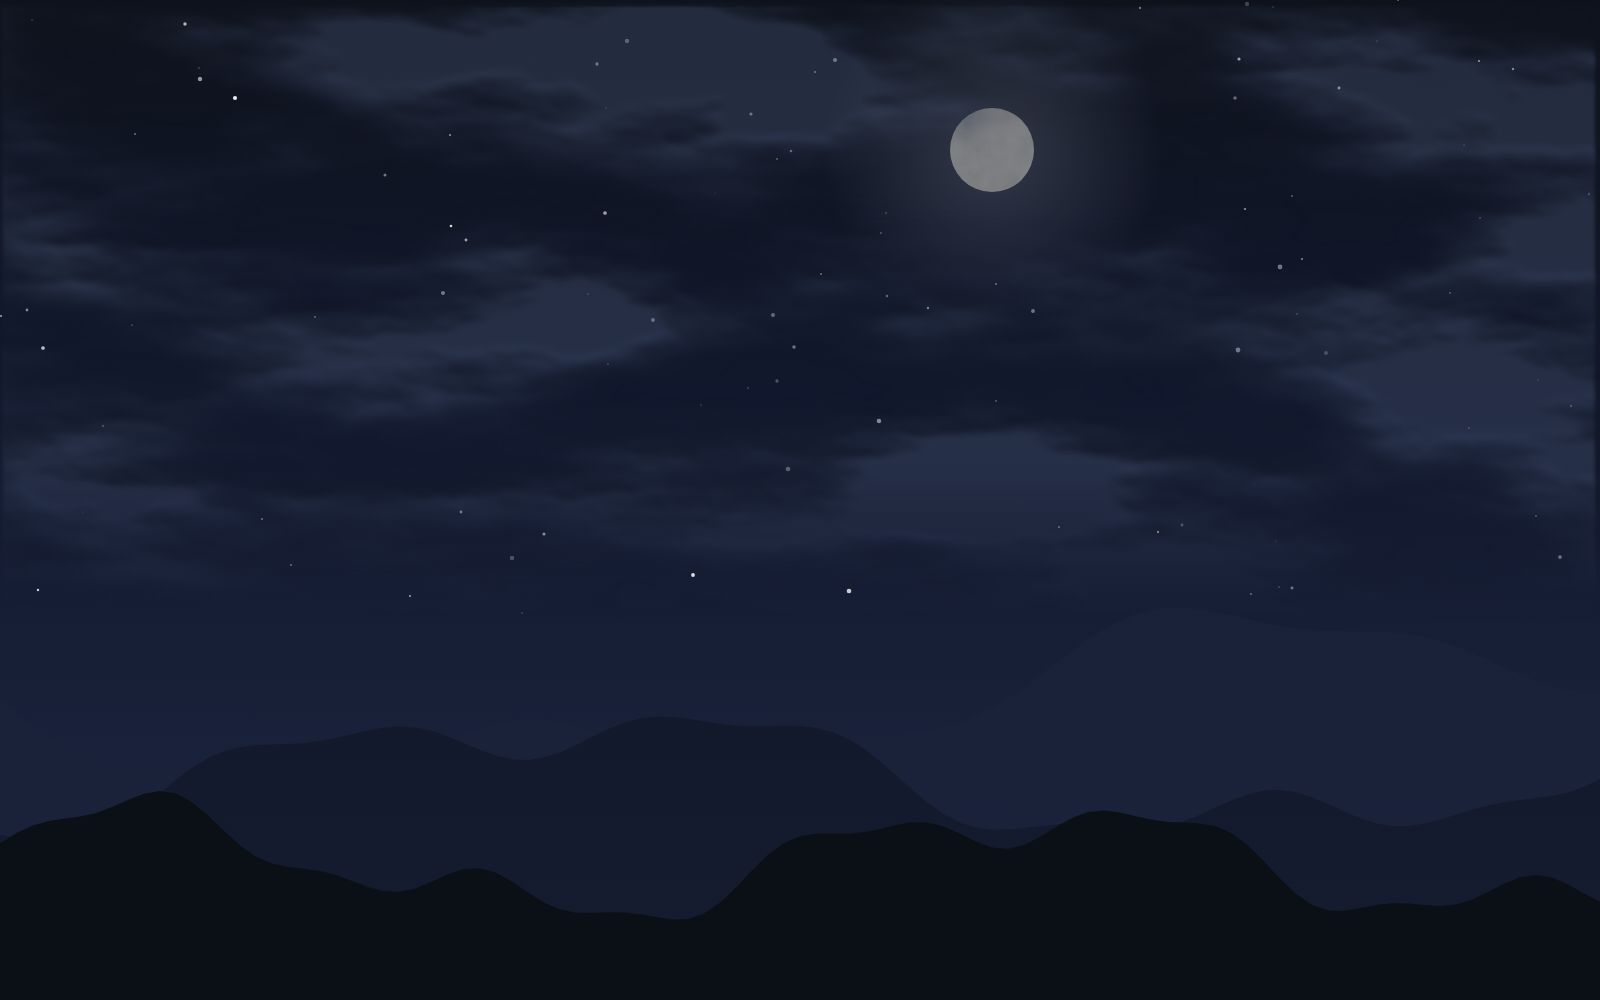
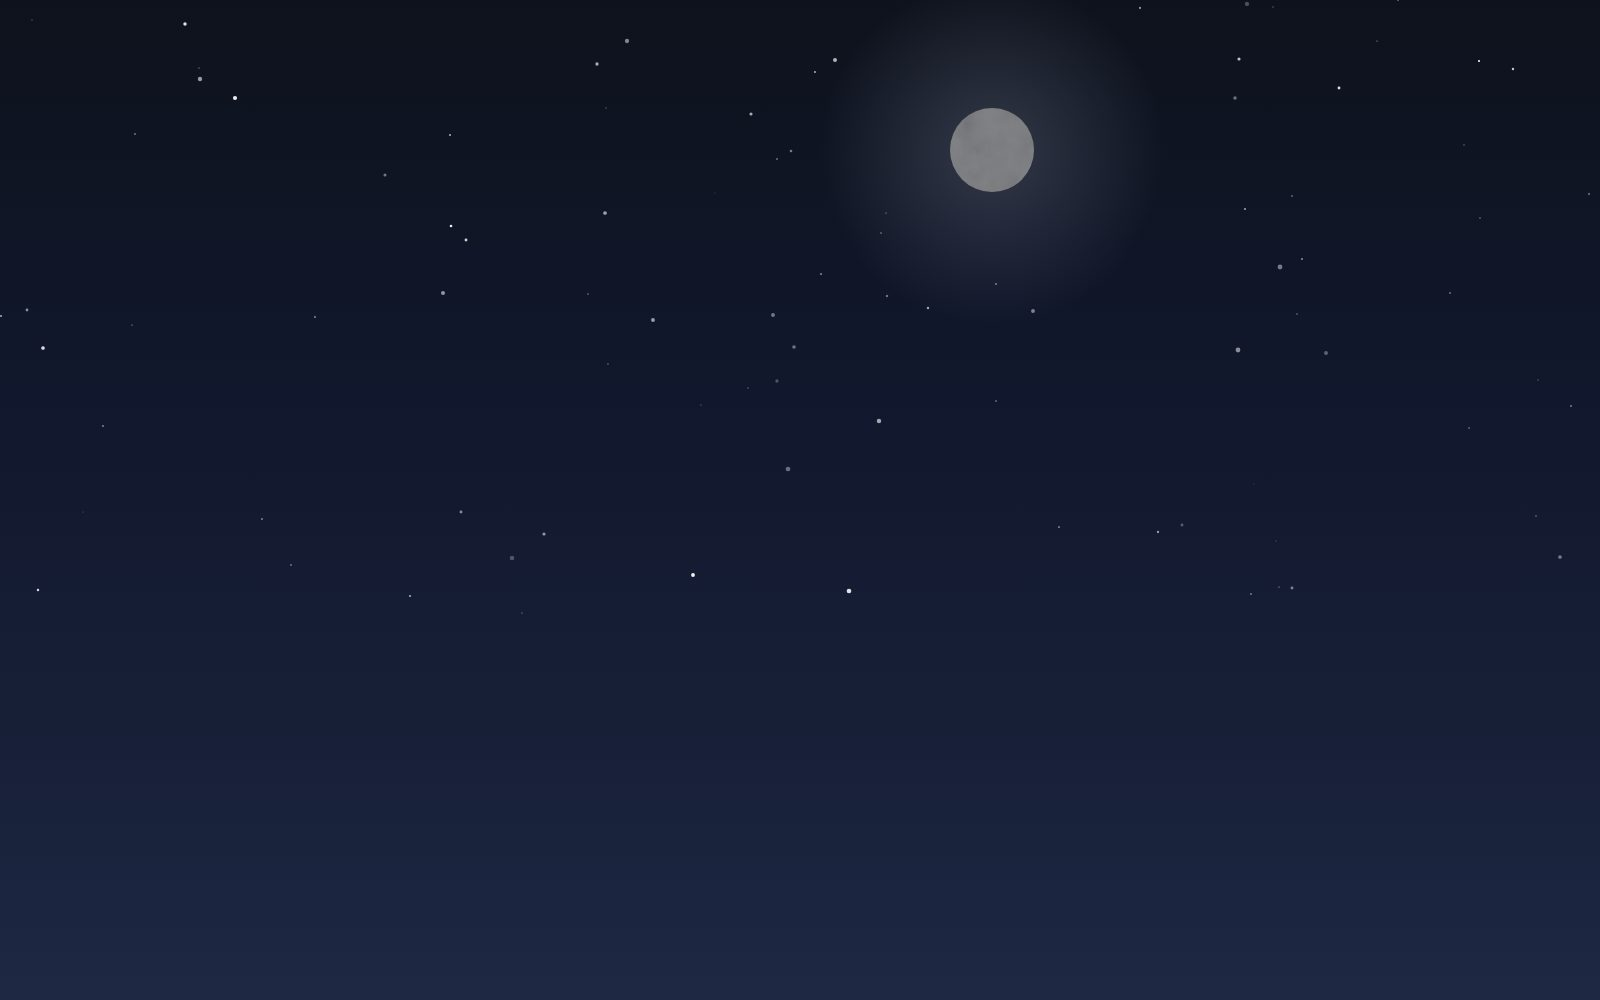
Tema Céu animado: nuvens deslizando, raios de sol e chuva caindo
- O céu virou camadas: fundo (gradiente, sol, lua, estrelas), nuvens numa
  faixa larga que vai e volta devagar, serra na frente e chuva por cima.
- Raios de sol: dois leques girando em sentidos opostos (manhã, dia e
  pôr do sol; fracos com céu nublado).
- Chuva: dois quadros de gotas repetidos, em velocidades diferentes.
- Leve: só imagens prontas mexidas por transform/opacity; ~300 KB
  carregados por vez. “Menos animação” nos Ajustes deixa tudo parado.

Claude-Session: https://claude.ai/code/session_01QDjm5Ds1oAwQpQakCaEMvL

diff --git a/luna-ai/scripts/sky/sky.html b/luna-ai/scripts/sky/sky.html
@@ -8,7 +8,11 @@
  */
 const q = new URLSearchParams(location.search);
 const phase = q.get('phase') || 'manha', wx = q.get('wx') || 'limpo';
-const W = 1600, H = 1000;
+// camada: ceu (fundo: gradiente, sol, lua, estrelas) · nuvens (faixa larga, fundo transparente, desliza no app) · serra (frente, transparente)
+const layer = q.get('layer') || 'tudo';
+const show = (k) => layer === 'tudo' || layer === k;
+const H = 1000, W = layer === 'nuvens' ? 3200 : 1600;
+if (layer !== 'ceu' && layer !== 'tudo') document.body.style.background = 'transparent';
 const P = {
   manha: { sky: ['#4f8fd6', '#8cc3ef', '#cfe6f7', '#fbefd9'], sun: [0.73, 0.15, '#fffbe8', 300], light: '#ffffff', shade: '#9db3c9', az: 225, el: 38, hills: ['#6f8fa3', '#4f7a5f', '#2f5a3c'], haze: '#cfe6f7', hz: 0.55, gray: '#aab4bf' },
   dia: { sky: ['#2f6fc4', '#5b9fe0', '#a6d0f2', '#e2f0fa'], sun: [0.86, 0.08, '#ffffff', 260], light: '#ffffff', shade: '#8ea6bf', az: 240, el: 60, hills: ['#7a95a8', '#4d7b5a', '#2c5838'], haze: '#c6e1f5', hz: 0.5, gray: '#9ea9b4' },
@@ -23,30 +27,32 @@ let defs = `<linearGradient id="sky" x1="0" y1="0" x2="0" y2="1">${sky.map((c, i
 <linearGradient id="haze" x1="0" y1="0" x2="0" y2="1"><stop offset=".55" stop-color="${mix(P.haze, P.gray, C.gray)}" stop-opacity="0"/><stop offset="1" stop-color="${mix(P.haze, P.gray, C.gray)}" stop-opacity="1"/></linearGradient>
 <linearGradient id="fg" x1="0" y1="0" x2="0" y2="1"><stop offset="0" stop-color="#fff"/><stop offset=".75" stop-color="#fff"/><stop offset="1" stop-color="#fff" stop-opacity="0"/></linearGradient>
 <mask id="fade" maskUnits="userSpaceOnUse" x="0" y="0" width="${W}" height="${H}"><rect width="${W}" height="${H * C.h}" fill="url(#fg)"/></mask>`;
-let body = `<rect width="${W}" height="${H}" fill="url(#sky)"/>`;
-if (phase === 'noite') for (let i = 0; i < (wx === 'limpo' ? 330 : wx === 'nublado' ? 90 : 0); i++) { const z = r(); body += `<circle cx="${(r() * W) | 0}" cy="${(r() * H * 0.62) | 0}" r="${(0.5 + z * z * 1.9).toFixed(2)}" fill="#fff" opacity="${(0.25 + r() * 0.7).toFixed(2)}"/>`; }
-if (P.sun && wx !== 'chuva') { const [x, y, c, rad] = P.sun; const o = wx === 'limpo' ? 1 : 0.45;
+let body = show('ceu') ? `<rect width="${W}" height="${H}" fill="url(#sky)"/>` : '';
+if (show('ceu') && phase === 'noite') for (let i = 0; i < (wx === 'limpo' ? 330 : wx === 'nublado' ? 90 : 0); i++) { const z = r(); body += `<circle cx="${(r() * W) | 0}" cy="${(r() * H * 0.62) | 0}" r="${(0.5 + z * z * 1.9).toFixed(2)}" fill="#fff" opacity="${(0.25 + r() * 0.7).toFixed(2)}"/>`; }
+if (show('ceu') && P.sun && wx !== 'chuva') { const [x, y, c, rad] = P.sun; const o = wx === 'limpo' ? 1 : 0.45;
   defs += `<radialGradient id="sun"><stop offset="0" stop-color="#fff" stop-opacity="${o}"/><stop offset=".08" stop-color="${c}" stop-opacity="${0.9 * o}"/><stop offset=".25" stop-color="${c}" stop-opacity="${0.35 * o}"/><stop offset="1" stop-color="${c}" stop-opacity="0"/></radialGradient>`;
   body += `<circle cx="${x * W}" cy="${y * H}" r="${rad}" fill="url(#sun)"/>`; }
-if (P.moon && wx !== 'chuva') { const [x, y] = P.moon; const o = wx === 'limpo' ? 1 : 0.5;
+if (show('ceu') && P.moon && wx !== 'chuva') { const [x, y] = P.moon; const o = wx === 'limpo' ? 1 : 0.5;
   defs += `<radialGradient id="mg"><stop offset="0" stop-color="#dfe6ff" stop-opacity=".35"/><stop offset="1" stop-color="#dfe6ff" stop-opacity="0"/></radialGradient>
   <filter id="crat"><feTurbulence type="fractalNoise" baseFrequency=".05" numOctaves="4" seed="5"/><feColorMatrix type="saturate" values="0"/><feComponentTransfer><feFuncA type="linear" slope=".35"/></feComponentTransfer><feComposite in2="SourceGraphic" operator="in"/></filter>`;
   body += `<g opacity="${o}"><circle cx="${x * W}" cy="${y * H}" r="175" fill="url(#mg)"/><circle cx="${x * W}" cy="${y * H}" r="42" fill="#f2f0e6"/><circle cx="${x * W}" cy="${y * H}" r="42" fill="#000" filter="url(#crat)"/></g>`; }
 const light = mix(P.light, '#c3c9d1', phase === 'noite' ? 0 : C.gray * 0.6), shade = mix(P.shade, '#2b333d', C.gray);
 defs += `<filter id="cl" x="0" y="0" width="100%" height="100%" color-interpolation-filters="sRGB">
- <feTurbulence type="fractalNoise" baseFrequency="${0.0028 * 1280 / W} ${0.009 * 800 / H}" numOctaves="6" seed="${phase.length * 3 + wx.length}" result="n"/>
+ <feTurbulence type="fractalNoise" baseFrequency="${0.0028 * 1280 / 1600} ${0.009 * 800 / H}" numOctaves="6" seed="${phase.length * 3 + wx.length}" result="n"/>
  <feColorMatrix in="n" type="matrix" values="0 0 0 0 1  0 0 0 0 1  0 0 0 0 1  ${C.cover[0]} 0 0 0 ${C.cover[1]}" result="a"/>
  <feGaussianBlur in="a" stdDeviation="${wx === 'chuva' ? 5 : 3}" result="ab"/>
  <feDiffuseLighting in="ab" surfaceScale="9" diffuseConstant="1.15" lighting-color="${light}" result="lit"><feDistantLight azimuth="${P.az}" elevation="${P.el}"/></feDiffuseLighting>
  <feComposite in="lit" in2="ab" operator="in" result="l2"/>
  <feFlood flood-color="${shade}" result="sh"/><feComposite in="sh" in2="ab" operator="in" result="s2"/>
  <feBlend in="l2" in2="s2" mode="screen" result="c"/><feComposite in="c" in2="ab" operator="in"/></filter>`;
-body += `<rect width="${W}" height="${H}" filter="url(#cl)" opacity="${phase === 'noite' ? (wx === 'limpo' ? 0.45 : 0.5) : C.op}" mask="url(#fade)"/>`;
+if (show('nuvens')) body += `<rect width="${W}" height="${H}" filter="url(#cl)" opacity="${phase === 'noite' ? (wx === 'limpo' ? 0.45 : 0.5) : C.op}" mask="url(#fade)"/>`;
 const hills = P.hills.map((c) => mix(c, P.gray, C.gray * 0.5));
-[[0.0034, 0.7, 112], [0.0048, 0.775, 88], [0.0068, 0.862, 75]].forEach(([f, base, amp], i) => {
+if (show('serra')) [[0.0034, 0.7, 112], [0.0048, 0.775, 88], [0.0068, 0.862, 75]].forEach(([f, base, amp], i) => {
   let d = `M0 ${H} `; for (let x = 0; x <= W; x += 16) { const y = base * H + Math.sin(x * f + i * 2) * amp * 0.6 + Math.sin(x * f * 2.7 + i) * amp * 0.3 + Math.sin(x * f * 6.1 + i * 5) * amp * 0.12; d += `L${x} ${y.toFixed(1)} `; }
   body += `<path d="${d}L${W} ${H} Z" fill="${hills[i]}"/>`; if (i < 2) body += `<rect width="${W}" height="${H}" fill="url(#haze)" opacity="${P.hz + C.gray * 0.3}"/>`; });
-if (wx === 'chuva') { body += `<rect width="${W}" height="${H}" fill="url(#haze)" opacity=".35"/>`; defs += `<filter id="rb"><feGaussianBlur stdDeviation=".5"/></filter>`; let g = '';
+if (show('serra') && wx === 'chuva') body += `<rect width="${W}" height="${H}" fill="url(#haze)" opacity=".35"/>`;
+// a chuva agora cai animada no app (camada própria); aqui só na prévia completa
+if (layer === 'tudo' && wx === 'chuva') { defs += `<filter id="rb"><feGaussianBlur stdDeviation=".5"/></filter>`; let g = '';
   for (let i = 0; i < 1300; i++) { const x = r() * W * 1.2, y = r() * H, l = 25 + r() * 55; g += `<line x1="${x | 0}" y1="${y | 0}" x2="${(x - l * 0.25) | 0}" y2="${(y + l) | 0}" stroke="#dbe7f5" stroke-width="${(0.7 + r() * 1.4).toFixed(1)}" opacity="${((phase === 'noite' ? 0.3 : 0.55) * (0.3 + r() * 0.7)).toFixed(2)}" stroke-linecap="round"/>`; }
   body += `<g filter="url(#rb)">${g}</g>`; }
 const s = document.getElementById('s'); s.setAttribute('width', W); s.setAttribute('height', H); s.setAttribute('viewBox', `0 0 ${W} ${H}`); s.innerHTML = `<defs>${defs}</defs>${body}`;

diff --git a/luna-ai/apps/web/src/components/SkyBackdrop.tsx b/luna-ai/apps/web/src/components/SkyBackdrop.tsx
@@ -3,20 +3,52 @@ import type { WeatherDto } from '@luna/shared/types';
 import { useSettings } from '../stores/settings';
 import { useDevices } from '../stores/devices';
 import { useClock, useWeather } from '../hooks/useWeather';
-import { skyPhase, skyTip, skyUrl, skyWeather } from '../lib/sky';
+import { skyPhase, skyTip, skyUrl, skyWeather, type SkyPhase, type SkyWx } from '../lib/sky';
 import { normalizeName } from '../lib/houseLinks';
 import { api, errorMessage } from '../services/api';
 
 const FADE_MS = 2500;
+/** Tamanho das imagens geradas (scripts/sky/render.cjs) */
+const IW = 1600;
+const IH = 1000;
+/** A serra começa nesta altura da imagem */
+const HILLS_Y = 360;
+/** Onde está o sol em cada fase (fração da imagem) */
+const SUN: Partial<Record<SkyPhase, [number, number]>> = { manha: [0.73, 0.15], dia: [0.86, 0.08], tarde: [0.5, 0.75] };
+const CLOUD_H: Record<SkyWx, number> = { limpo: 0.47, nublado: 0.62, chuva: 1 };
+
+/** Mesma conta do object-fit: cover (imagem centralizada, cobrindo a tela) */
+function useCover() {
+  const get = () => {
+    const vw = window.innerWidth;
+    const vh = window.innerHeight;
+    const s = Math.max(vw / IW, vh / IH);
+    return { vw, vh, s, x0: (vw - IW * s) / 2, y0: (vh - IH * s) / 2 };
+  };
+  const [g, setG] = useState(get);
+  useEffect(() => {
+    const on = () => setG(get());
+    window.addEventListener('resize', on);
+    return () => window.removeEventListener('resize', on);
+  }, []);
+  return g;
+}
 
 /**
- * Céu de fundo do tema “Céu”. Escolhe a imagem pela hora e pelo tempo e troca com dissolve.
- * Leve: é só uma imagem parada (no máximo duas durante a troca), sem nada desenhado ao vivo.
+ * Céu de fundo do tema “Céu”, em camadas: fundo (gradiente, sol, lua) → raios de sol girando devagar →
+ * nuvens deslizando → serra na frente → chuva caindo. Só imagens prontas mexidas por transform/opacity
+ * (a placa de vídeo faz o trabalho); com “menos animação” nos Ajustes, tudo fica parado.
  */
 export function SkyBackdrop() {
   const on = useSettings((s) => s.theme) === 'ceu';
   if (!on) return null;
   return <Sky />;
+}
+
+interface Scene {
+  key: string;
+  phase: SkyPhase;
+  wx: SkyWx;
 }
 
 function Sky() {
@@ -28,39 +60,64 @@ function Sky() {
     return () => clearInterval(t);
   }, [reload]);
   const phase = skyPhase(now, weather);
-  const url = skyUrl(phase, skyWeather(weather));
-  const [layers, setLayers] = useState<{ url: string; n: number; shown: boolean }[]>([{ url, n: 0, shown: true }]);
+  const wx = skyWeather(weather);
+  const key = `${phase}-${wx}`;
+  const [layers, setLayers] = useState<(Scene & { n: number; shown: boolean })[]>([{ key, phase, wx, n: 0, shown: true }]);
   const n = useRef(0);
+  const geo = useCover();
 
   useEffect(() => {
     document.documentElement.dataset.sky = phase;
   }, [phase]);
   useEffect(() => () => void delete document.documentElement.dataset.sky, []);
 
+  // Troca de céu: carrega as camadas novas antes e faz o dissolve
   useEffect(() => {
-    if (layers[layers.length - 1]?.url === url) return;
+    if (layers[layers.length - 1]?.key === key) return;
     let alive = true;
     const timers: number[] = [];
-    const img = new Image();
-    img.onload = () => {
+    const urls = [skyUrl(phase, wx), `/sky/${key}-nuvens.webp`, `/sky/${key}-serra.webp`];
+    void Promise.all(urls.map((u) => new Promise((ok) => Object.assign(new Image(), { onload: ok, onerror: ok, src: u })))).then(() => {
       if (!alive) return;
       const k = ++n.current;
-      setLayers((l) => [...l.slice(-1), { url, n: k, shown: false }]);
+      setLayers((l) => [...l.slice(-1), { key, phase, wx, n: k, shown: false }]);
       timers.push(window.setTimeout(() => setLayers((l) => l.map((x) => (x.n === k ? { ...x, shown: true } : x))), 50));
       timers.push(window.setTimeout(() => setLayers((l) => l.filter((x) => x.n === k)), FADE_MS + 300));
-    };
-    img.src = url;
+    });
     return () => {
       alive = false;
       timers.forEach(clearTimeout);
     };
-  }, [url]); // eslint-disable-line react-hooks/exhaustive-deps
+  }, [key]); // eslint-disable-line react-hooks/exhaustive-deps
 
+  const { s, x0, y0, vw } = geo;
+  const box = (y: number, w: number, h: number) => ({ left: x0, top: y0 + y * s, width: w * s, height: h * s });
   return (
     <div className="sky-bg" aria-hidden="true">
-      {layers.map((l) => (
-        <img key={l.n} src={l.url} alt="" className={l.shown ? 'in' : ''} decoding="async" />
-      ))}
+      {layers.map((l) => {
+        const sun = l.wx !== 'chuva' ? SUN[l.phase] : undefined;
+        const cloudW = IW * 2 * s;
+        return (
+          <div key={l.n} className={`sky-scene ${l.shown ? 'in' : ''}`}>
+            <img src={skyUrl(l.phase, l.wx)} alt="" decoding="async" style={box(0, IW, IH)} />
+            {sun && <div className={`sky-rays ${l.wx === 'limpo' ? '' : 'faint'} ${l.phase}`} style={{ left: x0 + sun[0] * IW * s, top: y0 + sun[1] * IH * s }} />}
+            <img
+              className="sky-clouds"
+              src={`/sky/${l.key}-nuvens.webp`}
+              alt=""
+              decoding="async"
+              style={{ ...box(0, IW * 2, IH * CLOUD_H[l.wx]), ['--travel' as string]: `${Math.min(0, vw - x0 - cloudW)}px`, animationDuration: l.wx === 'chuva' ? '300s' : '420s' }}
+            />
+            <img src={`/sky/${l.key}-serra.webp`} alt="" decoding="async" style={box(HILLS_Y, IW, IH - HILLS_Y)} />
+            {l.wx === 'chuva' && (
+              <div className={`sky-rain ${l.phase === 'noite' ? 'dim' : ''}`}>
+                <i className="far" />
+                <i className="near" />
+              </div>
+            )}
+          </div>
+        );
+      })}
       <div className="sky-scrim" />
     </div>
   );

diff --git a/luna-ai/apps/web/src/styles/themes.css b/luna-ai/apps/web/src/styles/themes.css
@@ -374,8 +374,32 @@ html:not([data-theme='hud']) .m-tile:has(.m-dim.dragging), html:not([data-theme=
 
 /* ---------------- Céu (Sereno com o céu de fundo) ---------------- */
 .sky-bg { position: fixed; inset: 0; z-index: 0; pointer-events: none; overflow: hidden; background: #0b0d12; }
-.sky-bg img { position: absolute; inset: 0; width: 100%; height: 100%; object-fit: cover; opacity: 0; transition: opacity 2.5s ease-in-out; }
-.sky-bg img.in { opacity: 1; }
+.sky-scene { position: absolute; inset: 0; opacity: 0; transition: opacity 2.5s ease-in-out; }
+.sky-scene.in { opacity: 1; }
+.sky-scene img { position: absolute; max-width: none; }
+/* Nuvens: faixa duas vezes mais larga que a imagem, vai e volta bem devagar */
+.sky-clouds { will-change: transform; animation: sky-drift 420s ease-in-out infinite alternate; }
+@keyframes sky-drift { from { transform: translateX(0); } to { transform: translateX(var(--travel, -800px)); } }
+/* Raios de sol: dois leques girando em sentidos opostos, sumindo nas bordas */
+.sky-rays { position: absolute; width: 1500px; height: 1500px; margin: -750px 0 0 -750px; pointer-events: none; opacity: 0.9;
+  -webkit-mask: radial-gradient(closest-side, #000 6%, rgba(0, 0, 0, 0.55) 30%, transparent 100%); mask: radial-gradient(closest-side, #000 6%, rgba(0, 0, 0, 0.55) 30%, transparent 100%); }
+.sky-rays::before, .sky-rays::after { content: ''; position: absolute; inset: 0; border-radius: 50%; will-change: transform; }
+.sky-rays::before { background: repeating-conic-gradient(from 0deg, transparent 0deg, rgba(255, 246, 214, 0.16) 2.5deg, transparent 5deg, transparent 12deg); animation: sky-spin 160s linear infinite; }
+.sky-rays::after { background: repeating-conic-gradient(from 5deg, transparent 0deg, rgba(255, 238, 200, 0.1) 4deg, transparent 8deg, transparent 19deg); animation: sky-spin 230s linear infinite reverse, sky-pulse 9s ease-in-out infinite alternate; }
+.sky-rays.tarde::before { background: repeating-conic-gradient(from 0deg, transparent 0deg, rgba(255, 196, 140, 0.18) 2.5deg, transparent 5deg, transparent 12deg); }
+.sky-rays.faint { opacity: 0.35; }
+@keyframes sky-spin { to { transform: rotate(360deg); } }
+@keyframes sky-pulse { from { opacity: 0.4; } to { opacity: 1; } }
+/* Chuva: dois quadros de gotas que se repetem, inclinados, caindo em velocidades diferentes */
+.sky-rain { position: absolute; inset: -25%; transform: rotate(12deg); pointer-events: none; }
+.sky-rain i { position: absolute; left: 0; right: 0; top: -512px; bottom: 0; will-change: transform; }
+.sky-rain .far { background: url('/sky/chuva-longe.png') repeat; background-size: 256px 512px; animation: sky-fall 1.1s linear infinite; opacity: 0.8; }
+.sky-rain .near { background: url('/sky/chuva-perto.png') repeat; background-size: 384px 768px; top: -768px; animation: sky-fall-near 0.55s linear infinite; }
+.sky-rain.dim { opacity: 0.55; }
+@keyframes sky-fall { to { transform: translateY(512px); } }
+@keyframes sky-fall-near { to { transform: translateY(768px); } }
+html.calm-motion .sky-bg :is(.sky-clouds, .sky-rain i) { animation: none !important; }
+html.calm-motion .sky-rays::before, html.calm-motion .sky-rays::after { animation: none !important; }
 /* Sombra suave em cima (relógio) e embaixo (cartões e menu) para o texto branco ler bem até no céu claro */
 .sky-scrim { position: absolute; inset: 0; background: linear-gradient(180deg, rgba(5, 10, 20, var(--sky-top, 0.3)) 0%, rgba(5, 10, 20, var(--sky-mid, 0.08)) 38%, rgba(5, 10, 20, var(--sky-bot, 0.4)) 100%); }
 html[data-sky='manha'], html[data-sky='dia'] { --sky-top: 0.38; --sky-mid: 0.16; --sky-bot: 0.45; }
